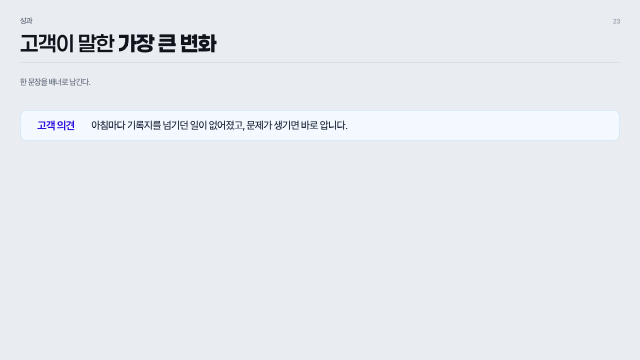
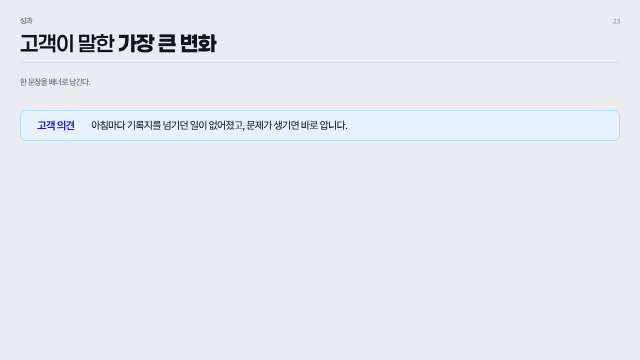
특이사항 배너 하늘색 한 단계 진하게: 바탕 #E6F3FF, 테두리 #8EC6EE

Changed region(s): [[0.9375, 0.3056, 0.9688, 0.3361], [0.0312, 0.3056, 0.0625, 0.3361]]

diff --git a/docs/design/index.html b/docs/design/index.html
@@ -549,10 +549,10 @@ function derive(primary,secondary){
   var readable=function(c){for(var t=0;t<=1.001;t+=0.1){var c2=mix(c,primary,t);if(contrast(c2)>=3)return c2}return primary};
   var sec=secondary&&/^#?[0-9a-f]{6}$/i.test(secondary)?secondary.toUpperCase():'';
   var primary2=(sec&&luminance(sec)>luminance(primary))?readable(sec):mix(primary,'#4E8DF5',0.55);
-  var banner='#F3F9FF', bannerLabel=primary;   // 배너는 연하늘 바탕 + 연하늘 테두리(장표와 같은 값)
+  var banner='#E6F3FF', bannerLabel=primary;   // 배너는 연하늘 바탕 + 연하늘 테두리(장표와 같은 값)
   return {primary:primary,primary2:primary2,primaryDeep:mix(primary,'#000000',0.28),
     softBlue:mix(primary2,'#FFFFFF',0.86),softerBlue:mix(primary2,'#FFFFFF',0.94),
-    banner:banner,bannerBorder:'#BCDDF5',bannerLabel:bannerLabel,bannerText:'#515B75',
+    banner:banner,bannerBorder:'#8EC6EE',bannerLabel:bannerLabel,bannerText:'#515B75',
     coverBadge:mix(mix(primary,'#000000',0.28),'#FFFFFF',0.17),dark:dark,
     usedSecondary:!!(sec&&luminance(sec)>luminance(primary))};
 }

diff --git a/skills/ppt-maker/app/design-system.html b/skills/ppt-maker/app/design-system.html
@@ -549,10 +549,10 @@ function derive(primary,secondary){
   var readable=function(c){for(var t=0;t<=1.001;t+=0.1){var c2=mix(c,primary,t);if(contrast(c2)>=3)return c2}return primary};
   var sec=secondary&&/^#?[0-9a-f]{6}$/i.test(secondary)?secondary.toUpperCase():'';
   var primary2=(sec&&luminance(sec)>luminance(primary))?readable(sec):mix(primary,'#4E8DF5',0.55);
-  var banner='#F3F9FF', bannerLabel=primary;   // 배너는 연하늘 바탕 + 연하늘 테두리(장표와 같은 값)
+  var banner='#E6F3FF', bannerLabel=primary;   // 배너는 연하늘 바탕 + 연하늘 테두리(장표와 같은 값)
   return {primary:primary,primary2:primary2,primaryDeep:mix(primary,'#000000',0.28),
     softBlue:mix(primary2,'#FFFFFF',0.86),softerBlue:mix(primary2,'#FFFFFF',0.94),
-    banner:banner,bannerBorder:'#BCDDF5',bannerLabel:bannerLabel,bannerText:'#515B75',
+    banner:banner,bannerBorder:'#8EC6EE',bannerLabel:bannerLabel,bannerText:'#515B75',
     coverBadge:mix(mix(primary,'#000000',0.28),'#FFFFFF',0.17),dark:dark,
     usedSecondary:!!(sec&&luminance(sec)>luminance(primary))};
 }

diff --git a/docs/templates/deck.html b/docs/templates/deck.html
@@ -15,7 +15,7 @@ deck-stage:not(:defined){visibility:hidden;}
   --accent:#00A89D;--gold:#C8A24B;--gold-light:#F2D78E;
   --success:#138A4E;--warning:#C97A1F;--danger:#C9302C;
   --bg-soft:#F5F7FA;--border:#D9DEE6;--border-strong:#B9C3D2;
-  --text:#1A2438;--title:#10141C;--body:#515B75;--banner:#F3F9FF;--banner-border:#BCDDF5;--banner-label:#2B0CDD;--banner-text:#515B75;--text-mid:#4A5568;--text-light:#8B95A7;
+  --text:#1A2438;--title:#10141C;--body:#515B75;--banner:#E6F3FF;--banner-border:#8EC6EE;--banner-label:#2B0CDD;--banner-text:#515B75;--text-mid:#4A5568;--text-light:#8B95A7;
   --pad:40px;--hdr:0px;--foot:0px;--safe-bottom:44px;--page:#E9ECF0;--card-shadow:0 2px 12px rgba(20,40,80,0.07);
   --font:'Pretendard','Pretendard','Malgun Gothic','맑은 고딕','Apple SD Gothic Neo','Noto Sans KR',sans-serif;
   --font-title:'Paperlogy 6 SemiBold','Pretendard','Apple SD Gothic Neo','Malgun Gothic','맑은 고딕','Noto Sans KR',sans-serif;

diff --git a/skills/ppt-maker/references/design-system.md b/skills/ppt-maker/references/design-system.md
@@ -22,7 +22,7 @@
 - **그래프(chart)**(2026-09-30, [shadcn/ui Charts](https://ui.shadcn.com/charts) 를 따름): 회색 패널 없이 카드 위에 바로. 왼쪽 제목·오른쪽 "단위 : …". 가로 격자선만(연한 테두리색), 축선·눈금선 없음, X 라벨만. 막대는 위 모서리만 둥글게(한 시리즈 5px, 여러 시리즈 3px), 선은 부드러운 곡선 + 선 색으로 채운 점, 값 라벨은 위. 범례는 아래 가운데(작은 둥근 네모). 색은 브랜드 팔레트 순서(primary-2 → primary → teal → gold). PPTX 는 같은 규칙이되 막대 모서리 둥글리기만 없음. 같은 종류 그래프는 형식 통일.
 - **간트(gantt)**(2026-10-01): 왼쪽 항목 이름 열(24%, 중간 굵기), 위 기간 라벨(회색) + 밑줄, 칸마다 세로 격자선(연한 테두리색), 행마다 가로 막대(행 높이의 40%, 포인트 컬러, 모서리 3px). `second` 파랑·`accent` 청록·`muted` 회색. 가로 구분선·행 배경은 없음. 한 장에 행 3~8개, 칸 4~12개.
 - **표**(2026-10-04, Figma SAFE AI 디자인 시스템 Data Table 을 따름): 시작·끝은 **2px 검정 선**(`--title`), 안쪽 행 구분은 1px 연회색 선(`--border`), 세로선 없음. **타이틀 영역(머리글 행)** 은 연회색 바탕(`--bg-soft`)·**굵게(bold)·회색 글자(`--text-mid`)**. **본문 칸은 보통 굵기(regular)·검정(`--text`)**. **세로 타이틀이 있는 표(`rowHeader: true`)** 는 첫 열도 타이틀 영역 — 연회색 바탕·굵게·회색 글자, 오른쪽 1px 선. 첫 칸이 합계·총계·평균인 행만 연회색 바탕·굵게. 숫자 칸이 절반 넘는 열은 오른쪽 정렬(tabular-nums). 강조 열만 머리글 포인트 컬러 글자(밑줄은 다른 열과 같은 1px 선), 칸은 글자색만 포인트 컬러(바탕 칠하지 않음, 굵기 그대로). **카드 안 작은 표(라벨·값 두 칸, `rows`)** 는 표가 아니라 값 목록처럼: 위·아래 검정 선 없음, 라벨 회색(`--text-mid`), 값 오른쪽 정렬·굵게, 행 사이 1px 선. **크기는 내용에 맞춘다**: `widths` 가 없으면 열 너비를 칸 글자 양에 맞춰 나누고(긴 글 열은 넓게, 숫자 열은 좁게, 열마다 최소 8%), 머리글도 칸이 좁으면 줄바꿈한다. 세로는 본문 배율(`--k`)을 0.75까지 줄이고, 그래도 넘치면 표 글자만 0.75배(`--kt`, 약 10pt)까지 더 줄인다. 그래도 한 장에 안 들어가는 표는 빌드할 때 행을 고르게 나눠 여러 장으로 편다(머리글 반복, 제목 뒤 "(계속)", 표 위 블록은 첫 장·아래 블록은 마지막 장).
-- **배너(callout)**(2026-10-08 밝게 반전): 아주 연한 하늘색 둥근 박스(`--banner` #F3F9FF) + 연하늘 테두리 1.5px(`--banner-border` #BCDDF5)로 연회색 장표 바탕과 구분한다. **라벨("특이사항"/"참고"/"핵심 요약")은 박스 안 왼쪽**에 포인트 컬러(`--banner-label`) 15pt 굵게, 본문 불릿은 오른쪽에 회색(`--banner-text` #515B75) 14pt, 본문 안 굵은 글씨는 포인트 컬러. 밖으로 걸치는 흰 칩은 쓰지 않는다. 배너는 **낮게** 쓴다: 안쪽 여백 `.75em 1.6em`(small 기준), 라벨–본문 간격 1.6em, 줄 사이 ≤0.35em.
+- **배너(callout)**(2026-10-08 밝게 반전): 아주 연한 하늘색 둥근 박스(`--banner` #E6F3FF) + 연하늘 테두리 1.5px(`--banner-border` #8EC6EE)로 연회색 장표 바탕과 구분한다. **라벨("특이사항"/"참고"/"핵심 요약")은 박스 안 왼쪽**에 포인트 컬러(`--banner-label`) 15pt 굵게, 본문 불릿은 오른쪽에 회색(`--banner-text` #515B75) 14pt, 본문 안 굵은 글씨는 포인트 컬러. 밖으로 걸치는 흰 칩은 쓰지 않는다. 배너는 **낮게** 쓴다: 안쪽 여백 `.75em 1.6em`(small 기준), 라벨–본문 간격 1.6em, 줄 사이 ≤0.35em.
 - **비교(compare)**: 라벨 칩(AS-IS 회색 / TO-BE 네이비)이 달린 두 카드, 오른쪽 연파랑, 가운데 › 화살표. **로드맵**: 선 + 네이비 번호 원 + 흰 단계 카드(마지막 `darkLast` 반전). **이미지**: 흰 카드 안, 없는 이미지는 점선 자리표시자. **이미지 상자는 기본 16:9**(`ratio` 로 `4:3`·`1:1`·`9:16`·`3:4`·`original`). 칸의 너비·높이 중 작은 쪽에 맞춰 비율을 지키고 원본은 가장자리를 잘라 채운다(cover). `original` 만 원본 비율 그대로(contain).
 - **표지/마무리**: `meta.coverBg` 로 고른 배경 3종 중 하나(soft·grid·band). 표지는 설명줄 → 제목 → 왼쪽 아래 로고 → 오른쪽 아래 상자 네 덩어리만 쓴다. 자세한 좌표는 아래 '표지·목차 글자 규격'.
 - **목차**: 연회색 배경(`--page`). 왼쪽 위에 `목차`(h1), 오른쪽에 **번호(1·2·3) + 섹션명(h2)** 을 2열로 적는다 — 쪽수·설명·로고는 넣지 않는다. 부록이 있으면 마지막 항목을 `+ 부록` 으로(글씨는 Paperlogy 4 Regular). 맨 아래 문서 제목 + 페이지 번호.
